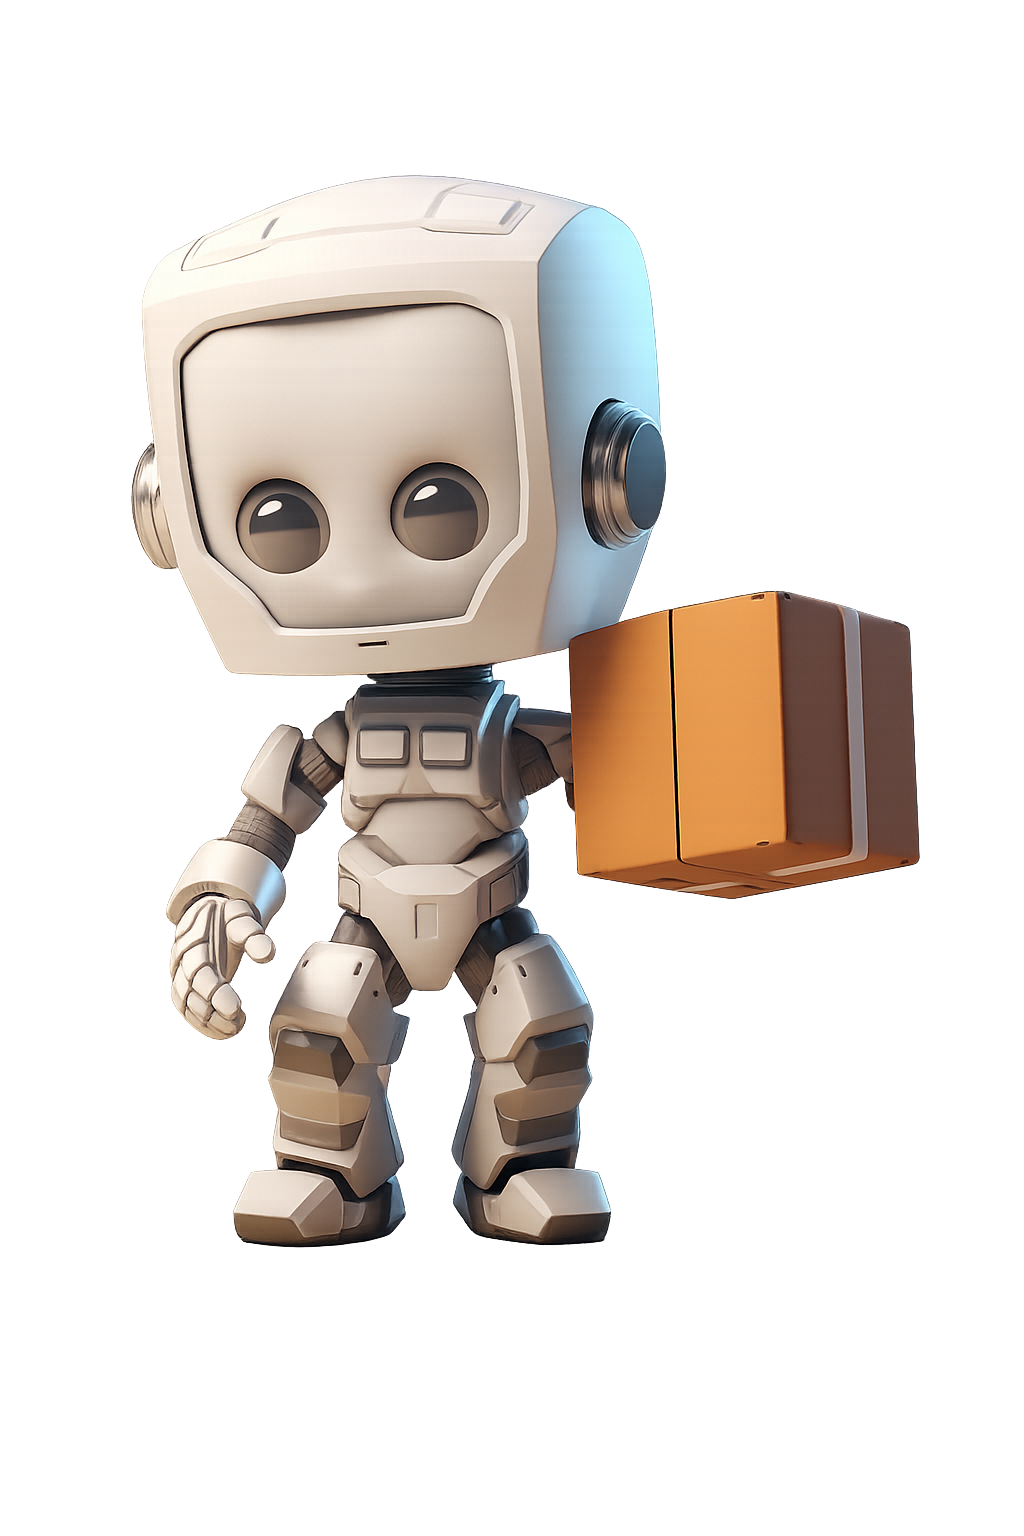
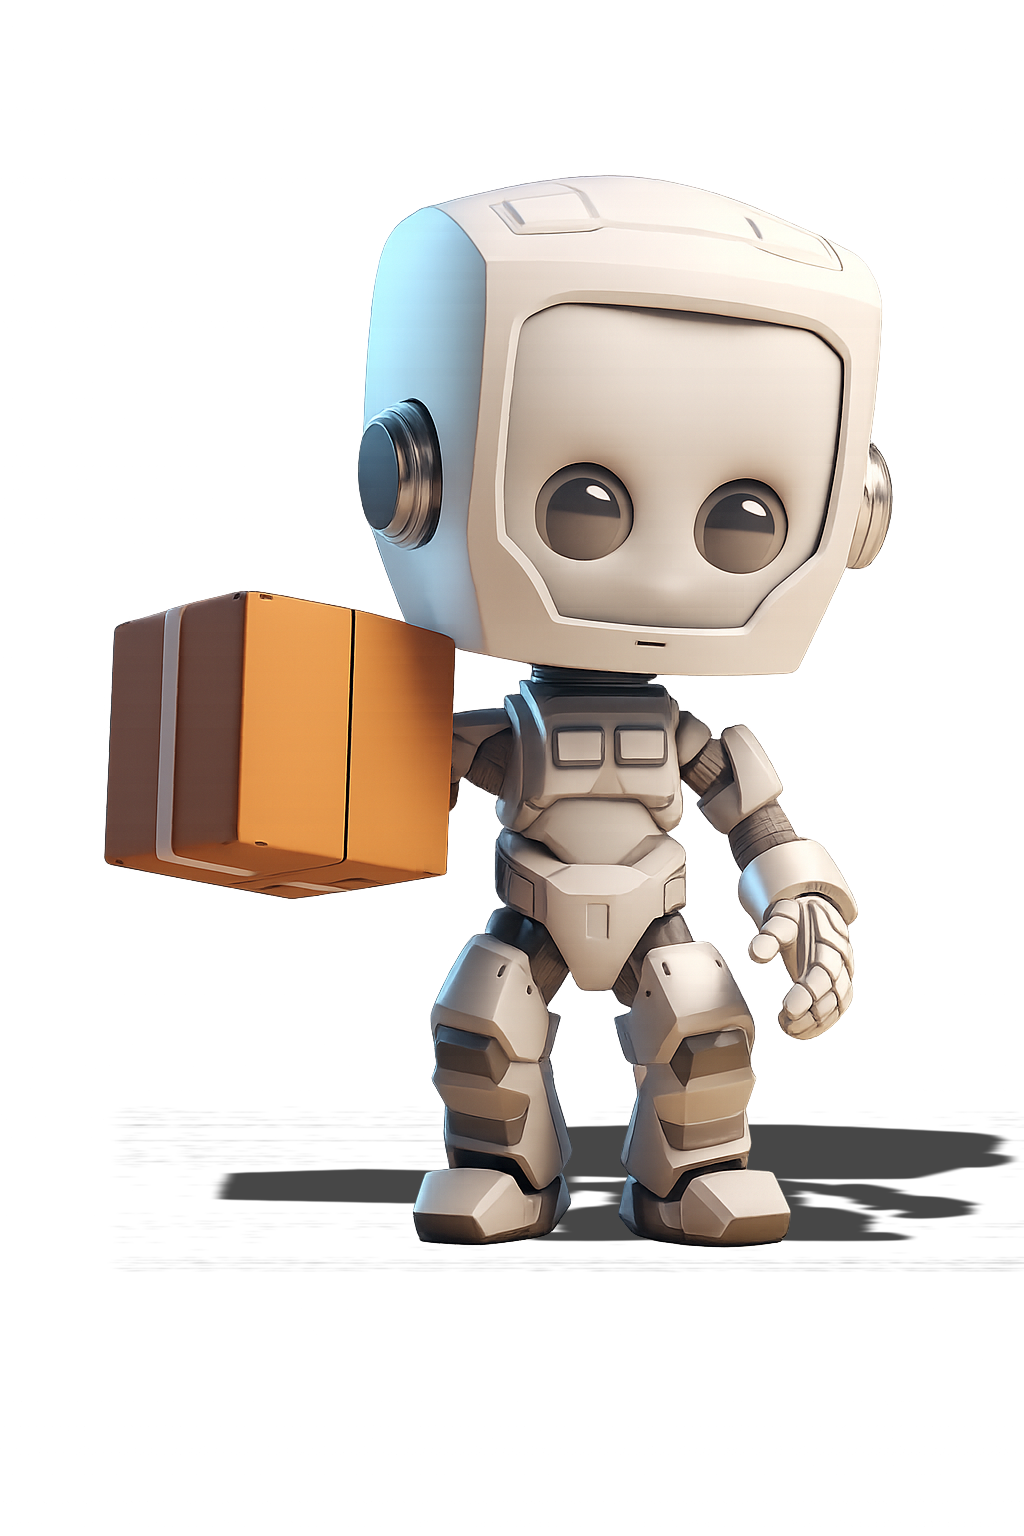
Ajuste de sombra en ImageRobot de HomePage

diff --git a/Frontend/src/Components/style/Styles.css b/Frontend/src/Components/style/Styles.css
@@ -164,7 +164,7 @@
 .robot-container {
   position: relative;
   top: -15px;
-  left: 8%;
+  left: -8%;
 }
 
 .robot-img {
